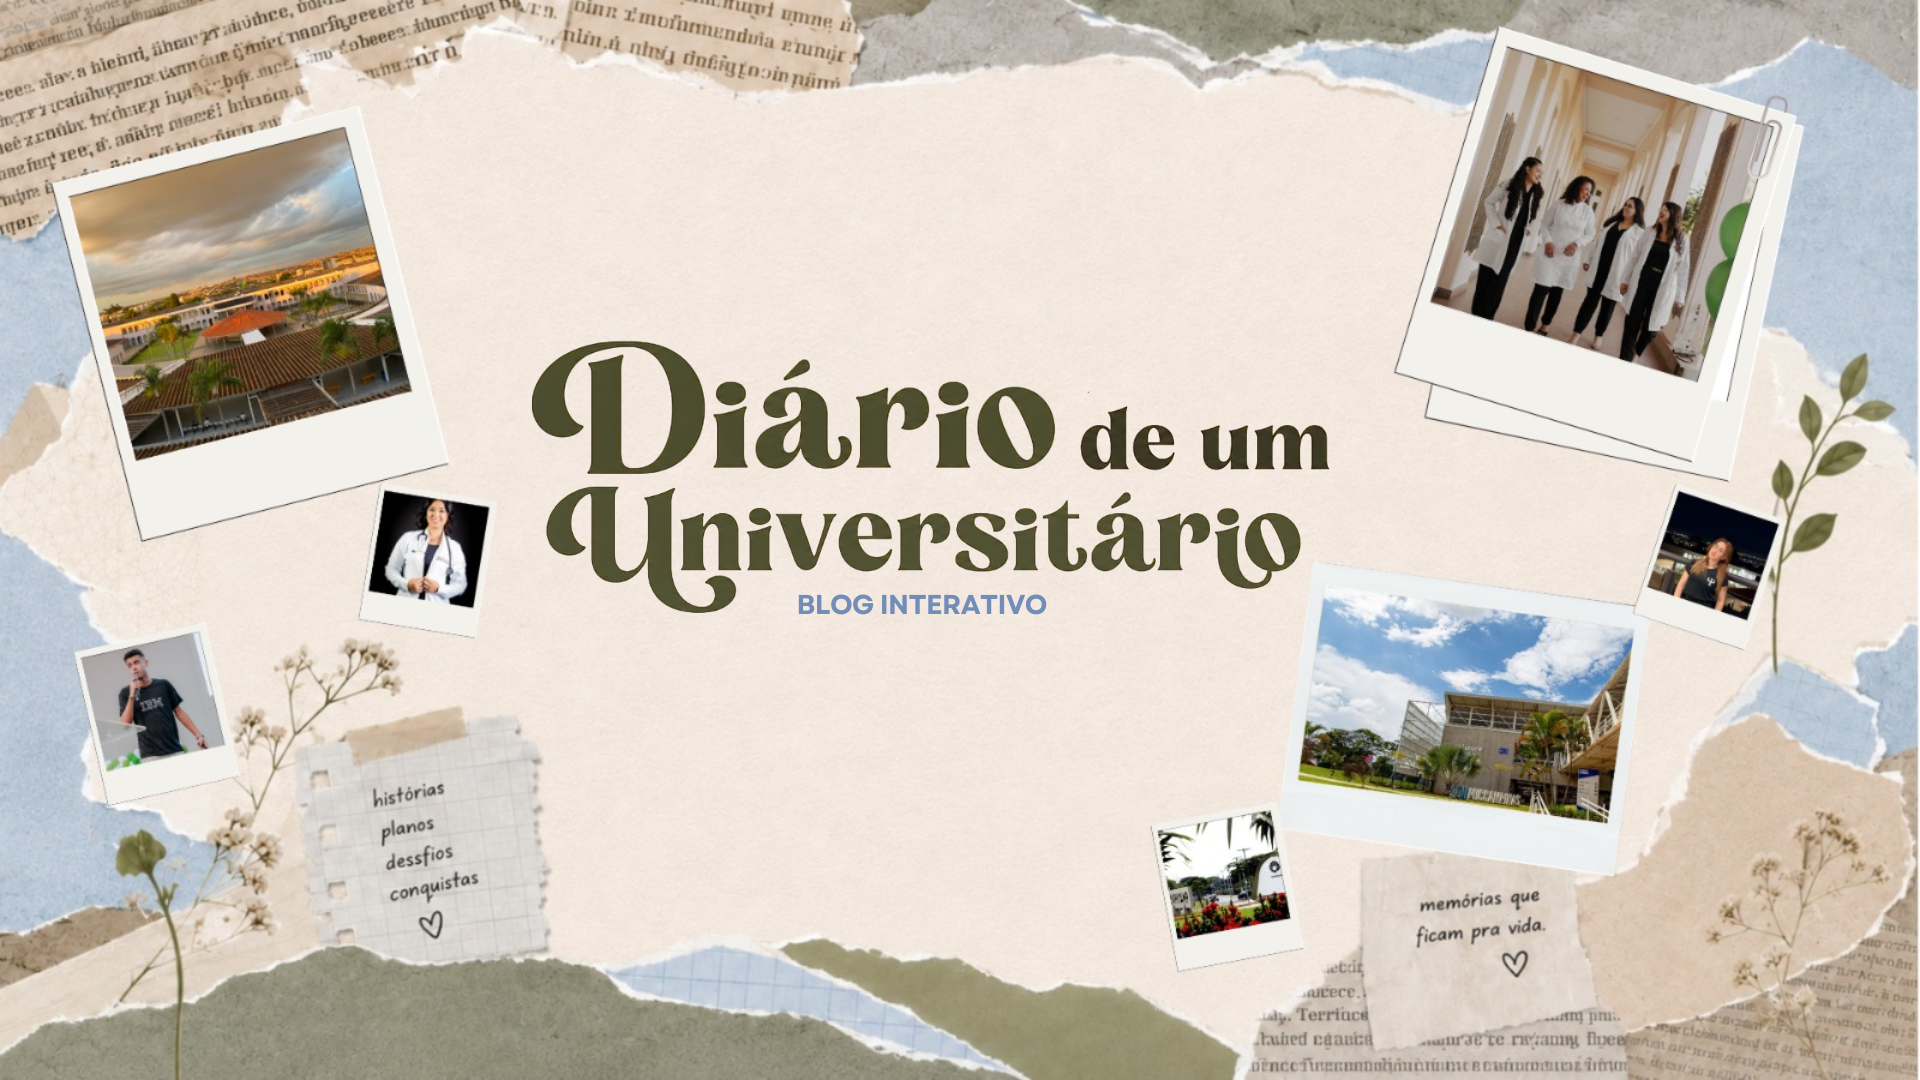
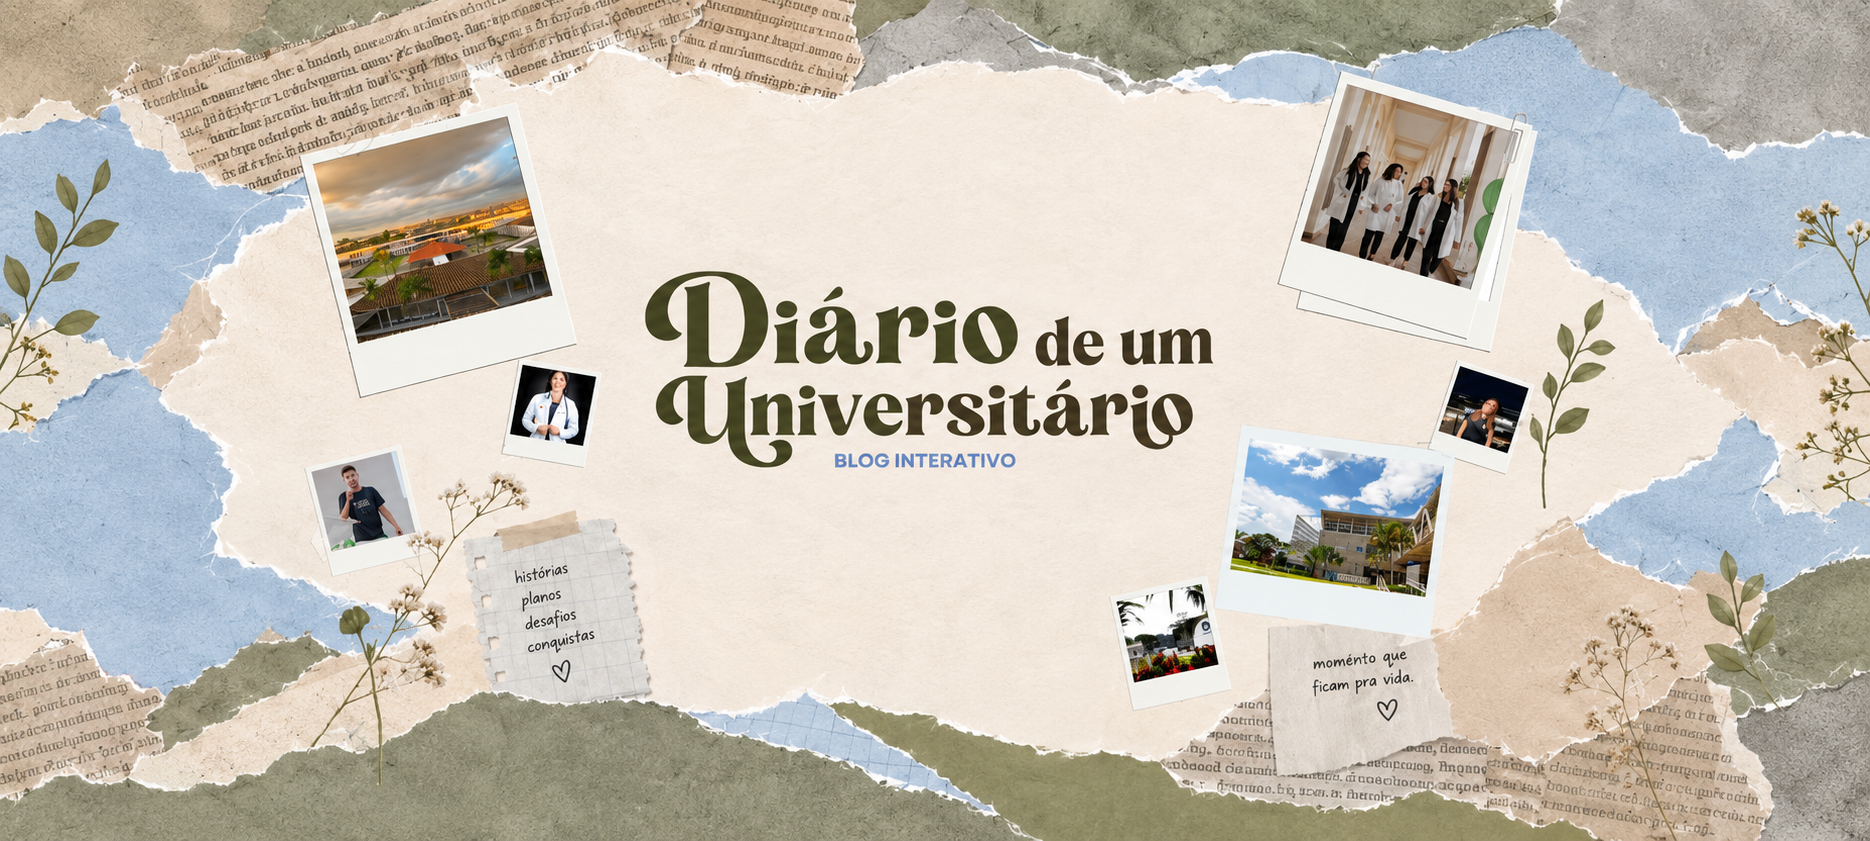
atualização de layout

diff --git a/index.html b/index.html
@@ -196,7 +196,7 @@ html{
     width: 100%;
     max-width: none;
     min-height: 130px;
-    height: 130px;
+    height: auto;
 
     margin: 0 0 12px 0px;
     padding: 8px;
@@ -207,7 +207,7 @@ html{
     border: 1px solid #d9e8f5;
     box-shadow: 0 2px 8px rgba(0,0,0,0.08);
 
-    overflow: hidden;
+    overflow: visible;
 }
 
 /* FOTO PEQUENA DO CARD */
@@ -233,7 +233,7 @@ html{
     flex-direction: column;
     justify-content: center;
 
-    padding: 5px 170px 5px 10px;
+    padding: 5px 80px 5px 10px;
 }
 /* NOME / TÍTULO */
 
@@ -275,7 +275,7 @@ html{
 
 .mini-texto {
     display: none;
-    font-size: 13px;
+    font-size: 15px;
     line-height: 1.4;
     margin-top: 5px;
     padding-right: 30px;
@@ -530,7 +530,7 @@ html{
     border-radius: 50%;
     border: none;
 
-    background: #0a0a0a;
+    background: #1e90ff;
     color: white;
 
     font-size: 35px;
@@ -1051,6 +1051,73 @@ footer {
     }
 }
     
+.titulo-historia {
+    display: flex;
+    align-items: center;
+    justify-content: center;
+    position: relative;
+}
+
+.titulo-historia h2 {
+    text-align: center;
+    margin: 0;
+}
+
+#setaHistoria {
+    position: absolute;
+    right: 10px;
+    border: none;
+    background: transparent;
+    font-size: 20px;
+    cursor: pointer;
+    color: #1769aa;
+    transition: 0.3s;
+}
+
+/* TEXTO ESCONDIDO */
+#conteudoHistoria {
+    display: none;
+    margin-top: 25px;
+    line-height: 1.8;
+    text-align: justify;
+}
+
+/* TEXTO VISÍVEL */
+#conteudoHistoria.aberto {
+    display: block;
+}
+
+/* GIRA A SETA */
+#setaHistoria.aberta {
+    transform: rotate(90deg);
+}
+
+.fotos-equipe {
+    display: flex;
+    justify-content: center;
+    align-items: flex-start;
+    gap: 25px;
+    margin: 20px 0;
+}
+
+.pessoa-equipe {
+    text-align: center;
+}
+
+.pessoa-equipe img {
+    width: 180px;
+    height: 180px;
+    object-fit: cover;
+    border-radius: 50%;
+    display: block;
+}
+
+.pessoa-equipe p {
+    margin-top: 10px;
+    font-size: 18px;
+    font-weight: bold;
+    color: #030303;
+}
 
 </style>
 </head>
@@ -2809,25 +2876,6 @@ function abrirPerfil(nome){
 
 </section>
 
-<!-- Seção Sobre o Blog Perfeita e Direta -->
-<section id="Sobre" class="nossa-historia">
-
-    <h2>Nossa História</h2>
-
- <p>Somos Lavinia, Wesley, Bruno e Vitória, estudantes do curso técnico de Análise e Desenvolvimento de Sistemas. Durante nossa trajetória no curso, percebemos algo que muitas pessoas enfrentam ao escolher uma faculdade: a falta de informações reais sobre os cursos, as instituições e, principalmente, sobre como é a vida de um universitário.</p>
-<p>Foi dessa percepção que nasceu a ideia do nosso projeto. Criamos este blog com o objetivo de aproximar estudantes e vestibulandos de experiências reais, trazendo relatos de pessoas que realmente vivenciam ou já vivenciaram a faculdade.</p>
-<p>Para nós, não bastava apenas pesquisar informações na internet. Queríamos ouvir pessoas de verdade, conhecer suas histórias, suas dificuldades, conquistas, escolhas e aprendizados. Por isso, buscamos universitários e profissionais que conhecemos e realizamos entrevistas para trazer experiências reais para dentro do nosso projeto.</p>
-<p>Cada relato apresentado aqui representa uma trajetória diferente e mostra que não existe apenas um caminho para chegar à profissão desejada.</p>
-<p>Este projeto também representa uma parte da nossa própria trajetória no curso técnico. Durante sua construção, aprendemos, pesquisamos, entrevistamos, desenvolvemos ideias e trabalhamos juntos para transformar uma simples dúvida em algo que pudesse ajudar outras pessoas.</p>
-<p>Esperamos que, ao conhecer essas histórias, você também encontre informações que possam ajudar na sua própria escolha e descubra um pouco mais sobre o mundo universitário.</p>
-<strong>Este é o nosso projeto, mas as histórias são de muitas pessoas. E talvez a próxima história possa ser a sua.</strong>
-<p>— Lavinia, Wesley, Bruno e Vitória</p>
-
-</section>
-
-<!-- ... seu card da história sobre o blog ... -->
-
-
 <script>
     function falarTextoMaria() {
         // 1. O texto que o robô vai ditar
@@ -3033,33 +3081,74 @@ leitor.readAsDataURL(foto);
 
     </script>
 
-<div style="display: flex; justify-content: center; gap: 15px; margin: 20px 0;">
+<section id="Sobre" class="nossa-historia">
 
-    <div style="text-align: center;">
-        <img src="/imagem/Vitória.png" alt="Vitória"
-             style="width: 220px; height: 220px; object-fit: cover; border-radius: 24px;">
-        <p style="margin-top: 8px; font-weight: bold;">Vitória</p>
+    <!-- TÍTULO + SETA -->
+    <div class="titulo-historia">
+        <h2>Nossa História</h2>
+
+        <button id="setaHistoria" onclick="abrirHistoria()">
+            ▶
+        </button>
     </div>
 
-    <div style="text-align: center;">
-        <img src="/imagem/Wesley.jpg" alt="Wesley"
-             style="width: 220px; height: 220px; object-fit: cover; border-radius: 24px;">
-        <p style="margin-top: 8px; font-weight: bold;">Wesley</p>
+    <!-- TEXTO QUE FICA ESCONDIDO -->
+    <div id="conteudoHistoria">
+
+        <p>
+            Somos Lavinia, Wesley, Bruno e Vitória, estudantes do curso técnico
+            de Análise e Desenvolvimento de Sistemas. Durante nossa trajetória
+            no curso, percebemos algo que muitas pessoas enfrentam ao escolher
+            uma faculdade: a falta de informações reais sobre os cursos,
+            instituições e, principalmente, sobre como é a vida de um universitário.
+        </p>
+
+        <p>
+            Foi dessa percepção que nasceu a ideia do nosso projeto. Criamos
+            este blog com o objetivo de aproximar estudantes e vestibulandos
+            de experiências reais.
+        </p>
+
+        <p>
+            Cada relato apresentado aqui representa uma trajetória diferente
+            e mostra que não existe apenas um caminho para chegar à profissão desejada.
+        </p>
+
+        <strong>
+            Este é o nosso projeto, mas as histórias são de muitas pessoas.
+            E talvez a próxima história possa ser a sua.
+        </strong>
+
+        <p>— Lavinia, Wesley, Bruno e Vitória</p>
+
     </div>
 
-    <div style="text-align: center;">
-        <img src="/imagem/Lavinia.png" alt="Lavinia"
-             style="width: 220px; height: 220px; object-fit: cover; border-radius: 24px;">
-        <p style="margin-top: 8px; font-weight: bold;">Lavinia</p>
-    </div>
 
-    <div style="text-align: center;">
-        <img src="/imagem/RG.jpg" alt="RG"
-             style="width: 220px; height: 220px; object-fit: cover; border-radius: 24px;">
-        <p style="margin-top: 8px; font-weight: bold;">RG</p>
-    </div>
+    <!-- FOTOS: FICAM SEMPRE VISÍVEIS -->
+    <div class="fotos-equipe">
 
-</div>
+        <div class="pessoa-equipe">
+            <img src="imagem/Lavinia.png" alt="Lavinia">
+            <p>Lavinia</p>
+        </div>
+    
+        <div class="pessoa-equipe">
+            <img src="imagem/Wesley.jpg" alt="Wesley">
+            <p>Wesley</p>
+        </div>
+    
+        <div class="pessoa-equipe">
+            <img src="imagem/Bruno.jpg" alt="Bruno">
+            <p>Bruno</p>
+        </div>
+    
+        <div class="pessoa-equipe">
+            <img src="imagem/Vitória.png" alt="Vitória">
+            <p>Vitória</p>
+        </div>
+    
+    </div>
+</section>
 
 
 <script>
@@ -3122,6 +3211,18 @@ function abrirDica(botao) {
     const dica = botao.parentElement;
 
     dica.classList.toggle("aberta");
+
+}
+</script>
+
+<script>
+function abrirHistoria() {
+
+    const conteudo = document.getElementById("conteudoHistoria");
+    const seta = document.getElementById("setaHistoria");
+
+    conteudo.classList.toggle("aberto");
+    seta.classList.toggle("aberta");
 
 }
 </script>
